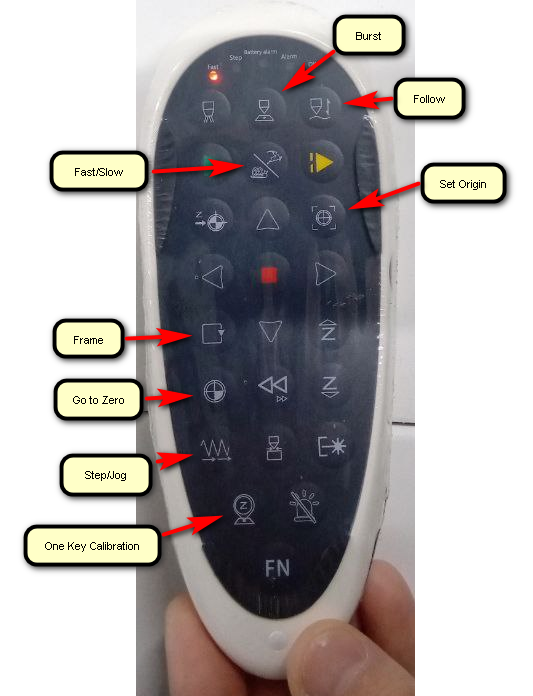
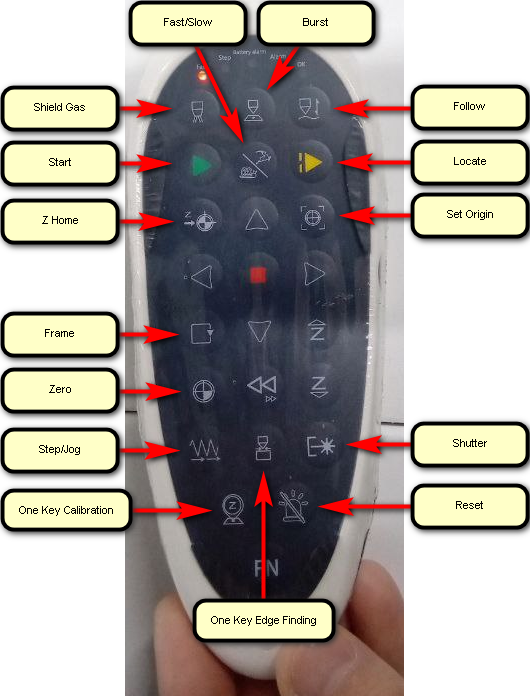
update

diff --git a/Bodor_A3_1kW_Guide/Bodor_A3_1kW_Guide.md b/Bodor_A3_1kW_Guide/Bodor_A3_1kW_Guide.md
@@ -72,7 +72,7 @@
 13. Установить голову станка в ноль по **X**,**Y**,**Z** кнопка **Go Home** ![](./Button/GoHome.png).
 14. Передвинуть голову на лист (не калибровать на углу или краю листа).
 15. Калибровка емкостного датчика высоты **Z** головы над поверхностью:
-    1. С пульта, **калибровка одной кнопкой**, быстрее но не видно результатов калибровки на экране (в системных настройках есть опция авто-отображения результатов после окончания калибровки, она работает и для быстрой калибровки и для кнопки **Calibrate** ![](./Button/Calibrate.png), но возможно потребуется перезапуск ПО, чтобы она вступила в силу).
+    1. С пульта, ![](./Button/Remote/OneKeyCalibration.png) **One Key Calibration**, быстрее но не видно результатов калибровки на экране (в системных настройках есть опция авто-отображения результатов после окончания калибровки, она работает и для быстрой калибровки и для кнопки **Calibrate** ![](./Button/Calibrate.png), но возможно потребуется перезапуск ПО, чтобы она вступила в силу). Делаем каждый раз при смене заготовки.
     2. В ПО:
         1. Нажать иконку **Follow** ![](./Icon/Follow.png). Появится окно калибровки.
         2. Опустить голову на поверхность кнопкой **Follow** ![](./Button/Follow/Follow.png).
@@ -118,7 +118,7 @@
 
 ## Nest + CoEdge + Отходы
 
-1. Заранее установить желаемые параметры сортировки перед импортом деталей, т.к. по умолчанию она будет применяться при импорте деталей (**Preprocess -> Auto Sorting** ![](./Icon/Preprocess.png)).
+1. Заранее установить желаемые параметры сортировки перед импортом деталей, т.к. по умолчанию они будут применяться при импорте деталей (**Preprocess -> Auto Sorting** ![](./Icon/Preprocess.png)).
 2. Импортировать деталь, но не добавлять *перемычки* с врезкой и недорез контура, т.к в процессе *CoEdge* *врезки* удалятся, оставив перемычку, а точка начала контура переместится в нужную позицию для правильного вырезания сопряженных деталей. Можно только дополнительно отсортировать.
 3. **Nest** ![](./Icon/Nest.png):
     1. **Post-processing -> CoEdge -> CoEdge Params... -> Prevent Collision**: обязательно поставить галочку (**OverCut** можно оставить равным нулю)! Это изменит порядок вырезания наружных контуров деталей так, чтобы предыдущая деталь полностью отделялась только при вырезании следующей детали, тем самым не давая предыдущей детали подыматься над листом. Если галочку не поставить, то сначала полностью вырежется первая деталь, она может подняться и создать угрозу удара для головы при вырезании следующей сопряженной детали.
@@ -147,6 +147,10 @@
 ![](./Image/NestCoEdgeCollision.png)
 
 ![](./Image/NestCoEdgeSort.png)
+
+![](./Image/NestCoEdgeSelected.png)
+
+![](./Image/CoEdgePoint.png)
 
 ## Доработка готовой детали
 
@@ -178,6 +182,9 @@
     2. *Rack Clearance*: по-умолчанию 30мм (шаг зубьев 35мм, шаг ламелей 60мм). *Rack* в переводе на русский это *Зуб*. Эта величина делится пополам и является отступом по краю детали при дополнительном поиске грани (6-и точечный поиск).
     3. *Back Distance*: по-умолчанию 30мм (диапазон 30.0-40.0мм). Расстояние отступа от края детали при дополнительном поиске грани (6-и точечный поиск).
     4. *Offset X* и *Offset Y* задают отступ от края заготовки (обпил).
+    5. После обнаружения границ заготовки и закрытия окна на чертеже слева вверху появится надпись с углом поворота координат.
+    6. Кнопка слева внизу **ON/OFF** включает и отключает функцию и преобразование координат (поворот координат). Отключить преобразование координат можно нажатием кнопки **OFF** в окне поиска границ, надпись на чертеже слева вверху исчезнет.
+    7. ![](./Button/Remote/OneKeyEdgeFinding.png) **One Key Edge Finding** кнопка на пульте для поиска кромки одной кнопкой.
 
     ![](./Image/EdgeFinderThinPlate.png)
 
@@ -189,7 +196,7 @@
 
     ![](./Image/PartVibration.jpg)
 
-13. **System Parameters -> 4.0.0 General -> Automatically switch to the calibration data interface during calibration -> Yes** работает и для кнопки ![](./Button/Calibrate.png) и **One Key Calibrate** при запуске с пульта, но требует перезапуска ПО, для полноценной работы.
+13. **System Parameters -> 4.0.0 General -> Automatically switch to the calibration data interface during calibration -> Yes** работает и для кнопки **Calibrate** ![](./Button/Calibrate.png) в ПО и для кнопки **One Key Calibrate** ![](./Button/Remote/OneKeyCalibration.png) на пульте (может потребоваться перезапуск ПО, для полноценной работы).
 14. После нажатия горячей клавиши для выбора инструмента (отсечение линии, сегментация линии, прочее...) курсор мыши не изменяется, нужно передвинуть курсор и тогда он поменяется на изображение инструмента, просто пиздец.
 15. **Datum Copy (Ctrl + Shift + C)** позволяет задать базовую точку при копировании объекта. Эта же точка будет использоваться для вставки объекта.
 16. **Sort -> Advanced Options -> Divide Grid**:
